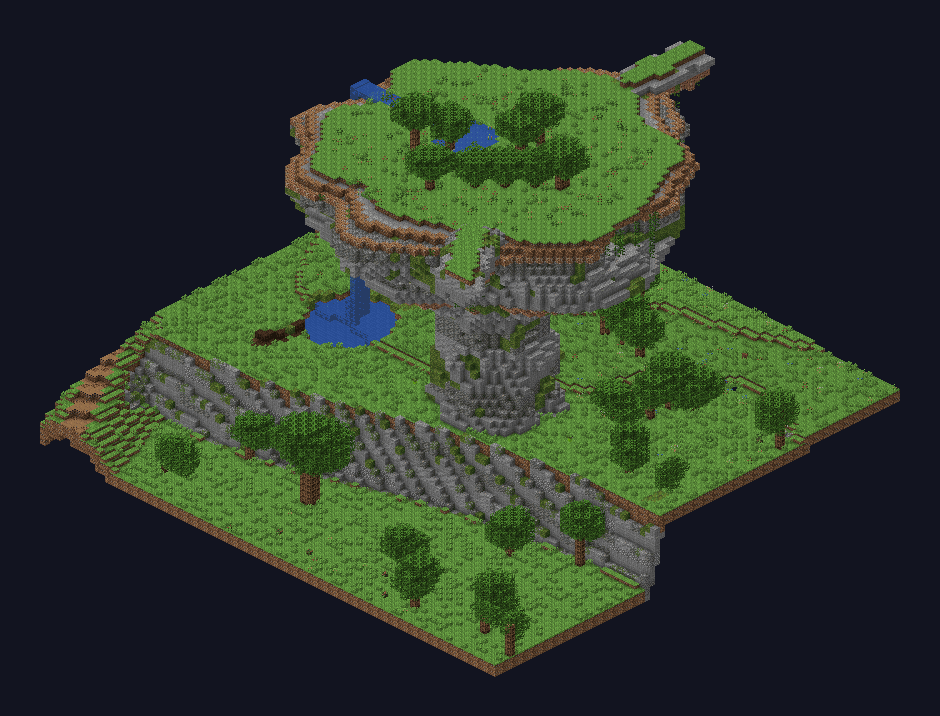
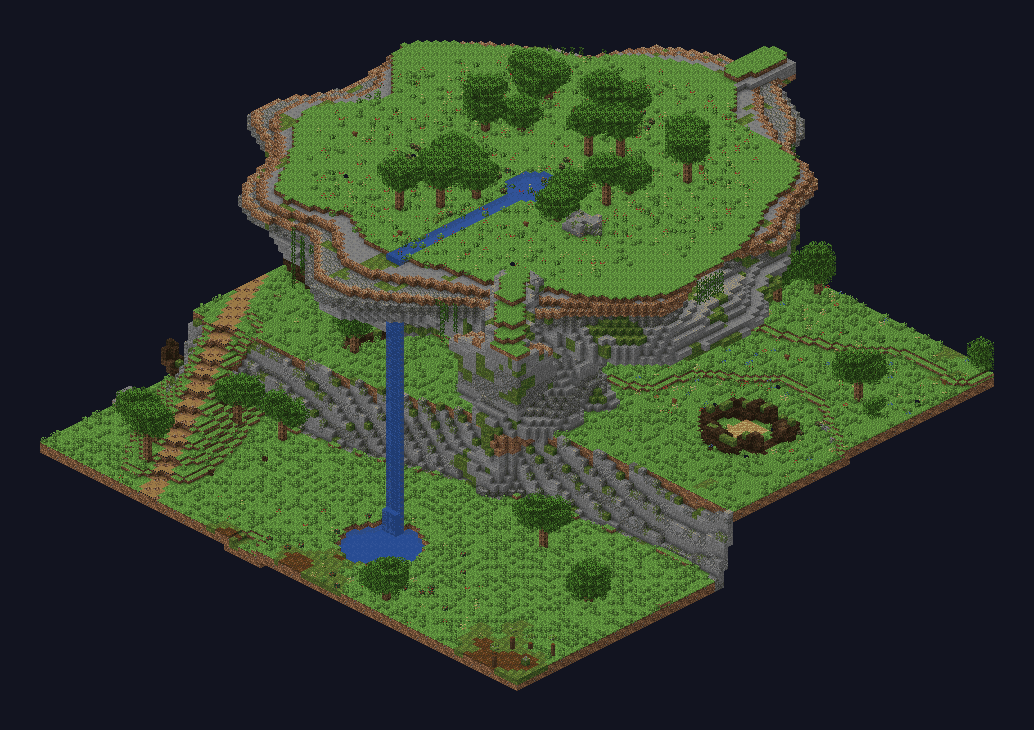
Proposals: field500 - wide pillar tops with their own hunting and gathering, south-facing spring fall

diff --git a/scripts/world_prototype/field500.py b/scripts/world_prototype/field500.py
@@ -656,7 +656,7 @@ def mesa(cx, cz, top_y, rb, rt, seed, needle=False):
     if needle:
         mark(cx - int(rb) - 3, cz - int(rb) - 3, cx + int(rb) + 3, cz + int(rb) + 3)
         return
-    for _ in range(int(rt * .35) + 1):                               # trees and bushes on top
+    for _ in range(int(rt * .55) + 1):                               # trees and bushes on top
         a = R.random() * math.tau; rr = rt * .6 * math.sqrt(R.random())
         x, z = int(round(cx + math.cos(a) * rr)), int(round(cz + math.sin(a) * rr))
         th = R.randint(4, 7)
@@ -676,10 +676,23 @@ def mesa(cx, cz, top_y, rb, rt, seed, needle=False):
 def rock_bridge(p0, p1, rise=3, width=1.6):
     """A natural rock bridge with a grassy walkable deck; the deck height goes into UPPER."""
     L = math.dist((p0[0], p0[2]), (p1[0], p1[2])); n = int(L * 2)
+    cpt = lambda t: (int(round(p0[0] + (p1[0] - p0[0]) * t)), int(round(p0[2] + (p1[2] - p0[2]) * t)))
+    # the span between leaving the first top and reaching the second: the slope lives only there
+    ts = 0.0
+    for i in range(n + 1):
+        x0_, z0_ = cpt(i / n)
+        if UPPER[z0_, x0_] == p0[1]: ts = i / n
+        else: break
+    te = 1.0
+    for i in range(n, -1, -1):
+        x0_, z0_ = cpt(i / n)
+        if UPPER[z0_, x0_] == p1[1]: te = i / n
+        else: break
     for i in range(n + 1):
         t = i / n
         cx, cz = p0[0] + (p1[0] - p0[0]) * t, p0[2] + (p1[2] - p0[2]) * t
-        deck = int(round(p0[1] + (p1[1] - p0[1]) * t + rise * math.sin(math.pi * t)))
+        u = min(1, max(0, (t - ts) / max(1e-6, te - ts)))
+        deck = int(round(p0[1] + (p1[1] - p0[1]) * u + rise * math.sin(math.pi * u)))
         under = 2 + 5 * (1 - math.sin(math.pi * t)) + 2 * noise3(cx, 0, cz, 151, 3)       # thicker at the ends
         wid = width + .8 * noise3(cx, 1, cz, 152, 4)
         for dx in range(-4, 5):
@@ -703,8 +716,8 @@ def rock_bridge(p0, p1, rise=3, width=1.6):
 # giant pillars stepping up and away from the high plateau's edge; each top is reached by a rock bridge from the one before
 ex, ez = 300, int(B2[300]) - 7
 EDGE_Y = at(ex, ez)
-PILLARS = [(300, 222, EDGE_Y + 10, 11, 24, 3), (300, 320, EDGE_Y + 20, 12, 27, 5),
-           (366, 400, EDGE_Y + 28, 13, 28, 1), (452, 318, EDGE_Y + 22, 9, 20, 7)]
+PILLARS = [(300, 222, EDGE_Y + 10, 15, 38, 3), (296, 322, EDGE_Y + 20, 16, 42, 5),
+           (372, 408, EDGE_Y + 28, 17, 44, 1), (456, 318, EDGE_Y + 22, 13, 34, 7)]
 for (px, pz, ty, rb, rt, sd) in PILLARS:
     mesa(px, pz, ty, rb, rt, sd)
 
@@ -712,10 +725,10 @@ for (px, pz, ty, rb, rt, sd) in PILLARS:
 def link(a, b, rise):
     (ax, az, ay, _, art, _), (bx, bz, by, _, brt, _) = a, b
     d = math.hypot(bx - ax, bz - az); ux, uz = (bx - ax) / d, (bz - az) / d
-    rock_bridge((ax + ux * (art - 5), ay, az + uz * (art - 5)), (bx - ux * (brt - 5), by, bz - uz * (brt - 5)), rise=rise)
+    rock_bridge((ax + ux * art * .84, ay, az + uz * art * .84), (bx - ux * brt * .84, by, bz - uz * brt * .84), rise=rise)
 
 
-rock_bridge((ex, EDGE_Y, ez - 2), (PILLARS[0][0], PILLARS[0][2], PILLARS[0][1] - PILLARS[0][4] + 5), rise=1)
+rock_bridge((ex, EDGE_Y, ez - 2), (PILLARS[0][0], PILLARS[0][2], PILLARS[0][1] - PILLARS[0][4] * .84), rise=0)
 link(PILLARS[0], PILLARS[1], 5)
 link(PILLARS[1], PILLARS[2], 6)
 link(PILLARS[2], PILLARS[3], 7)
@@ -723,31 +736,34 @@ for x in range(ex - 3, ex + 4):                                     # the platea
     for z in range(ez - 4, ez + 1):
         UPPER[z, x] = max(UPPER[z, x], at(x, z))
 
-# a spring on the second pillar: a pool on top, spilling over the west rim as a waterfall into a plunge pool below
+# a spring on the second pillar: a pool on top, spilling over the south rim (toward the road) as a waterfall into a plunge pool
 P1x, P1z, P1y, _, P1r, _ = PILLARS[1]
 for dx in range(-5, 6):
     for dz in range(-5, 6):
         if dx * dx + dz * dz <= 22:
-            put(P1x - 6 + dx, P1y, P1z + dz, "water_still", shape="water"); put(P1x - 6 + dx, P1y - 1, P1z + dz, "gravel")
-            UPPER[P1z + dz, P1x - 6 + dx] = -1
-for xx2 in range(P1x - P1r + 1, P1x - 10):                          # channel to the rim
-    for dz in (-1, 0, 1):
-        put(xx2, P1y, P1z + dz, "water_still", shape="water"); UPPER[P1z + dz, xx2] = -1
-fx = P1x - P1r
-gb = at(fx - 3, P1z)
-for y in range(gb + 1, P1y + 1):                                    # the fall, two blocks wide, spraying wider near the bottom
-    for dz in (-1, 0, 1):
-        put(fx, y, P1z + dz, "water_still")
-        if y < gb + 6: put(fx - 1, y, P1z + dz, "water_still", shape="water")
+            put(P1x + 4 + dx, P1y, P1z + 4 + dz, "water_still", shape="water"); put(P1x + 4 + dx, P1y - 1, P1z + 4 + dz, "gravel")
+            UPPER[P1z + 4 + dz, P1x + 4 + dx] = -1
+fz = P1z + 9
+while UPPER[fz + 1, P1x + 4] == P1y: fz += 1                        # walk the channel out to the actual rim
+for zz2 in range(P1z + 9, fz + 1):
+    for dx in (3, 4, 5):
+        put(P1x + dx, P1y, zz2, "water_still", shape="water"); UPPER[zz2, P1x + dx] = -1
+fz += 1
+gb = at(P1x + 4, fz + 3)
+for y in range(gb + 1, P1y + 1):                                    # the fall, three blocks wide, spray near the bottom
+    for dx in (3, 4, 5):
+        put(P1x + dx, y, fz, "water_still")
+        if y < gb + 6: put(P1x + dx, y, fz + 1, "water_still", shape="water")
 for dx in range(-8, 9):                                             # plunge pool
     for dz in range(-8, 9):
-        if dx * dx + dz * dz <= 50 and 0 <= fx - 2 + dx < B:
-            x2, z2 = fx - 2 + dx, P1z + dz
+        if dx * dx + dz * dz <= 50:
+            x2, z2 = P1x + 4 + dx, fz + 3 + dz
             g2 = at(x2, z2)
             for y in range(g2 - 2, g2 + 2): w.b.pop((x2, y, z2), None)
             put(x2, g2 - 3, z2, "gravel"); put(x2, g2 - 2, z2, "water_still"); put(x2, g2 - 1, z2, "water_still", shape="water")
             lake[z2, x2] = True
-CONTENT.append((fx, P1z, "falls"))
+fx = P1x + 4
+CONTENT.append((fx, fz, "falls"))
 
 # rewards on the tops: a lookout cairn, a rare herb patch by the spring, a treasure at the far end, a high camp
 for (px, pz, ty, rb, rt, sd), what in zip(PILLARS, ("cairn", "herb", "treasure", "camp")):
@@ -763,7 +779,51 @@ for (px, pz, ty, rb, rt, sd), what in zip(PILLARS, ("cairn", "herb", "treasure",
         put(px, ty + 1, pz, "campfire_log_lit", shape="fire")
         for (dx, dz) in ((-2, 0), (2, 0), (0, 2)): put(px + dx, ty + 1, pz + dz, "spruce_log", "spruce_log", shape="slab")
     CONTENT.append((px, pz, "pillar"))
-spawn(PILLARS[2][0], PILLARS[2][1], 16, 5, "lime_wool", "sprite")
+def top_spawn(px, pz, ty, rad, count, colour, shape):
+    k = tries = 0
+    while k < count and tries < count * 30:
+        tries += 1
+        a = R.random() * math.tau; r = rad * math.sqrt(R.random())
+        x, z = int(round(px + math.cos(a) * r)), int(round(pz + math.sin(a) * r))
+        if UPPER[z, x] != ty or (x, ty + 1, z) in w.b and w.b[(x, ty + 1, z)][0] not in ("plant",): continue
+        w.b.pop((x, ty + 1, z), None)
+        if shape == "upright": put(x, ty + 1, z, colour, shape="npc_low"); put(x, ty + 2, z, colour, shape="npc_high")
+        else: put(x, ty + 1, z, colour, shape=shape)
+        k += 1
+
+
+def top_herbs(px, pz, ty, n):
+    for _ in range(n):
+        x, z = px + R.randint(-4, 4), pz + R.randint(-4, 4)
+        if UPPER[z, x] == ty and (x, ty + 1, z) not in w.b:
+            put(x, ty + 1, z, R.choice(["sweet_berry_bush_stage3", "firefly_bush", "fern", "azalea_leaves"]),
+                shape="slab" if "azalea" in w.b.get((x, ty + 1, z), ("", "", ""))[1] else "plant")
+
+
+def top_rocks(px, pz, ty, ore):
+    for dx in range(-3, 4):
+        for dz in range(-3, 4):
+            for dy in range(1, 4):
+                if dx * dx + dz * dz + dy * dy * 1.5 <= 11 and R.random() < .85:
+                    put(px + dx, ty + dy, pz + dz, R.choice(["stone", "andesite", "mossy_cobblestone"] + ([ore] if ore else [])))
+
+
+# content on each top: these are fields in the sky, with their own hunting and gathering
+TOPS = [  # sprites + herbs; beetles + sap; deer herd + iron; wolves (strong) + gold
+    (PILLARS[0], [("lime_wool", "sprite", 10)], 3, None),
+    (PILLARS[1], [("black_wool", "beetle", 8), ("brown_wool", "deer", 6)], 4, "iron_ore"),
+    (PILLARS[2], [("light_gray_wool", "wolf", 9), ("lime_wool", "sprite", 5)], 3, "gold_ore"),
+    (PILLARS[3], [("red_mushroom_block", "upright", 7)], 3, "copper_ore"),
+]
+for (px, pz, ty, rb, rt, sd), spawns, herbs, ore in TOPS:
+    for (col, shp, n) in spawns:
+        top_spawn(px, pz, ty, rt * .75, n, col, shp)
+    for k2 in range(herbs):
+        a = R.random() * math.tau; r = rt * .6 * math.sqrt(R.random())
+        top_herbs(int(px + math.cos(a) * r), int(pz + math.sin(a) * r), ty, 14)
+    if ore:
+        a = R.random() * math.tau
+        top_rocks(int(px + math.cos(a) * rt * .5), int(pz + math.sin(a) * rt * .5), ty, ore)
 
 
 # great stone arches over the road where it enters and leaves the zone: scenery gates (rounded rock, nothing to stand on)
@@ -1031,3 +1091,4 @@ if __name__ == "__main__":
     print("blocks", len(w.b))
     import pickle
     pickle.dump((w.b, hi, LABELS), open("field500.pkl", "wb")); pickle.dump((FILL, STATS), open("field500-fill.pkl", "wb"))
+

diff --git a/scripts/world_prototype/field500_render.py b/scripts/world_prototype/field500_render.py
@@ -8,7 +8,7 @@ b, hi, LABELS = pickle.load(open("field500.pkl", "rb"))
 SHOTS = {"tree": (190, 100, 290, 205, 10), "boss": (352, 52, 438, 138, 10), "fungal": (40, 190, 150, 285, 10),
          "wolf": (380, 355, 450, 430, 13), "tower": (60, 45, 112, 100, 14), "cliff": (420, 120, 499, 190, 12),
          "boulders": (235, 390, 335, 465, 10), "meadow": (270, 195, 395, 305, 8), "pond": (55, 385, 165, 460, 10),
-         "rest": (165, 235, 235, 295, 14), "ramp": (120, 300, 220, 380, 9), "falls": (230, 140, 300, 220, 11), "gap": (140, 300, 230, 360, 12), "sap": (150, 190, 186, 226, 18), "arch": (240, 200, 300, 270, 12), "pillars": (240, 150, 499, 440, 5), "pillar1": (250, 280, 340, 360, 10), "gate": (0, 400, 80, 499, 9), "egate": (430, 180, 499, 290, 9)}
+         "rest": (165, 235, 235, 295, 14), "ramp": (120, 300, 220, 380, 9), "falls": (230, 140, 300, 220, 11), "gap": (140, 300, 230, 360, 12), "sap": (150, 190, 186, 226, 18), "arch": (240, 200, 300, 270, 12), "pillars": (230, 150, 499, 470, 5), "pillar1": (240, 270, 345, 375, 9), "top": (320, 360, 420, 460, 9), "gate": (0, 400, 80, 499, 9), "egate": (430, 180, 499, 290, 9)}
 
 
 def render(sub, W):
